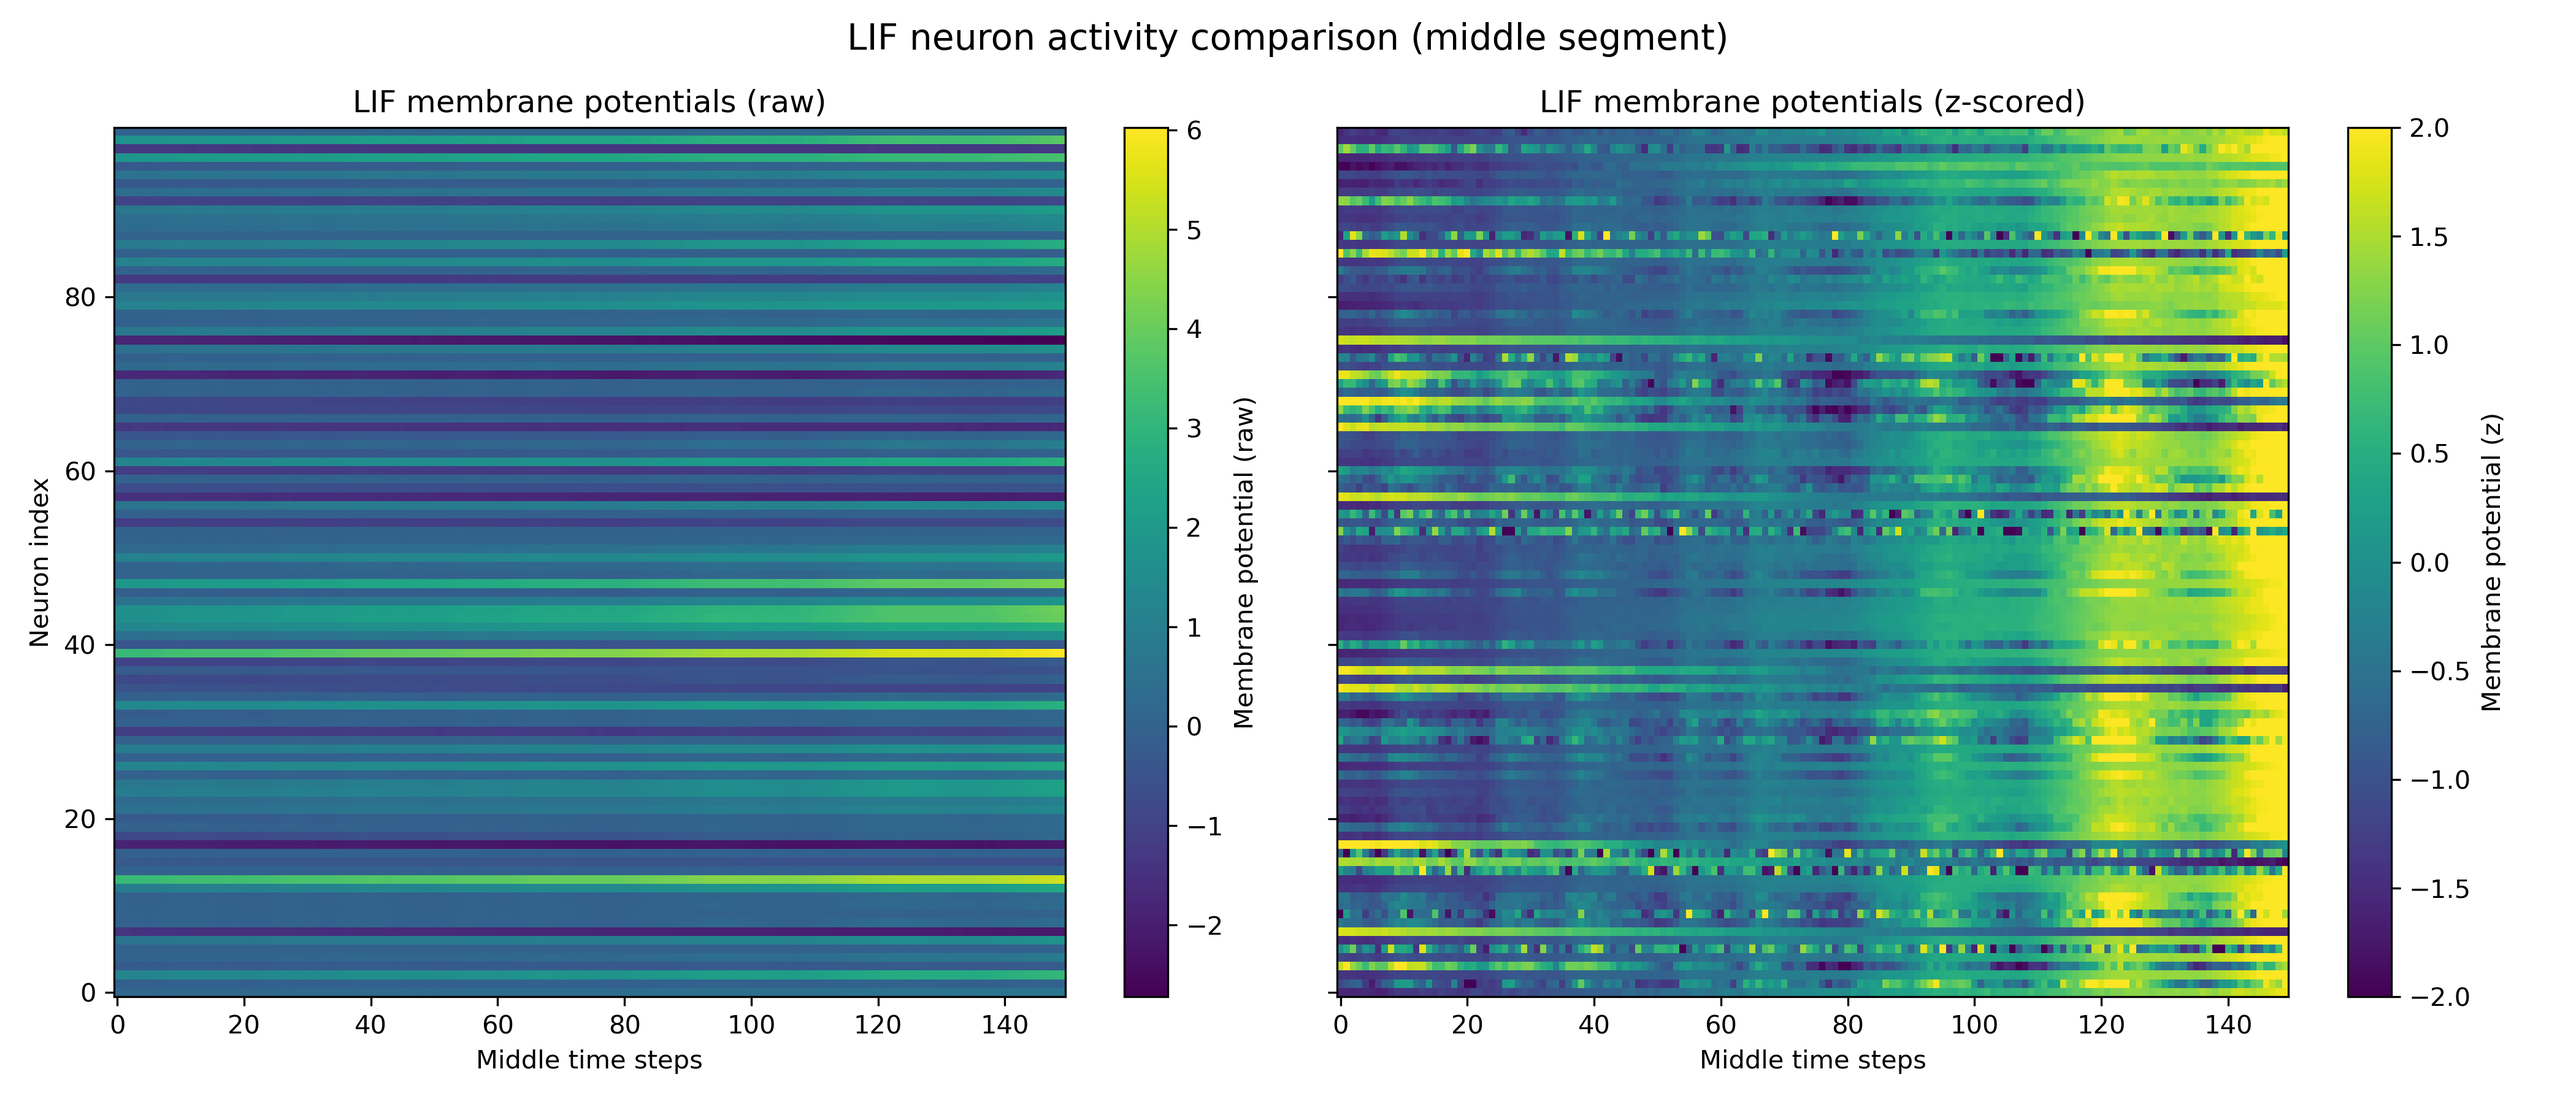
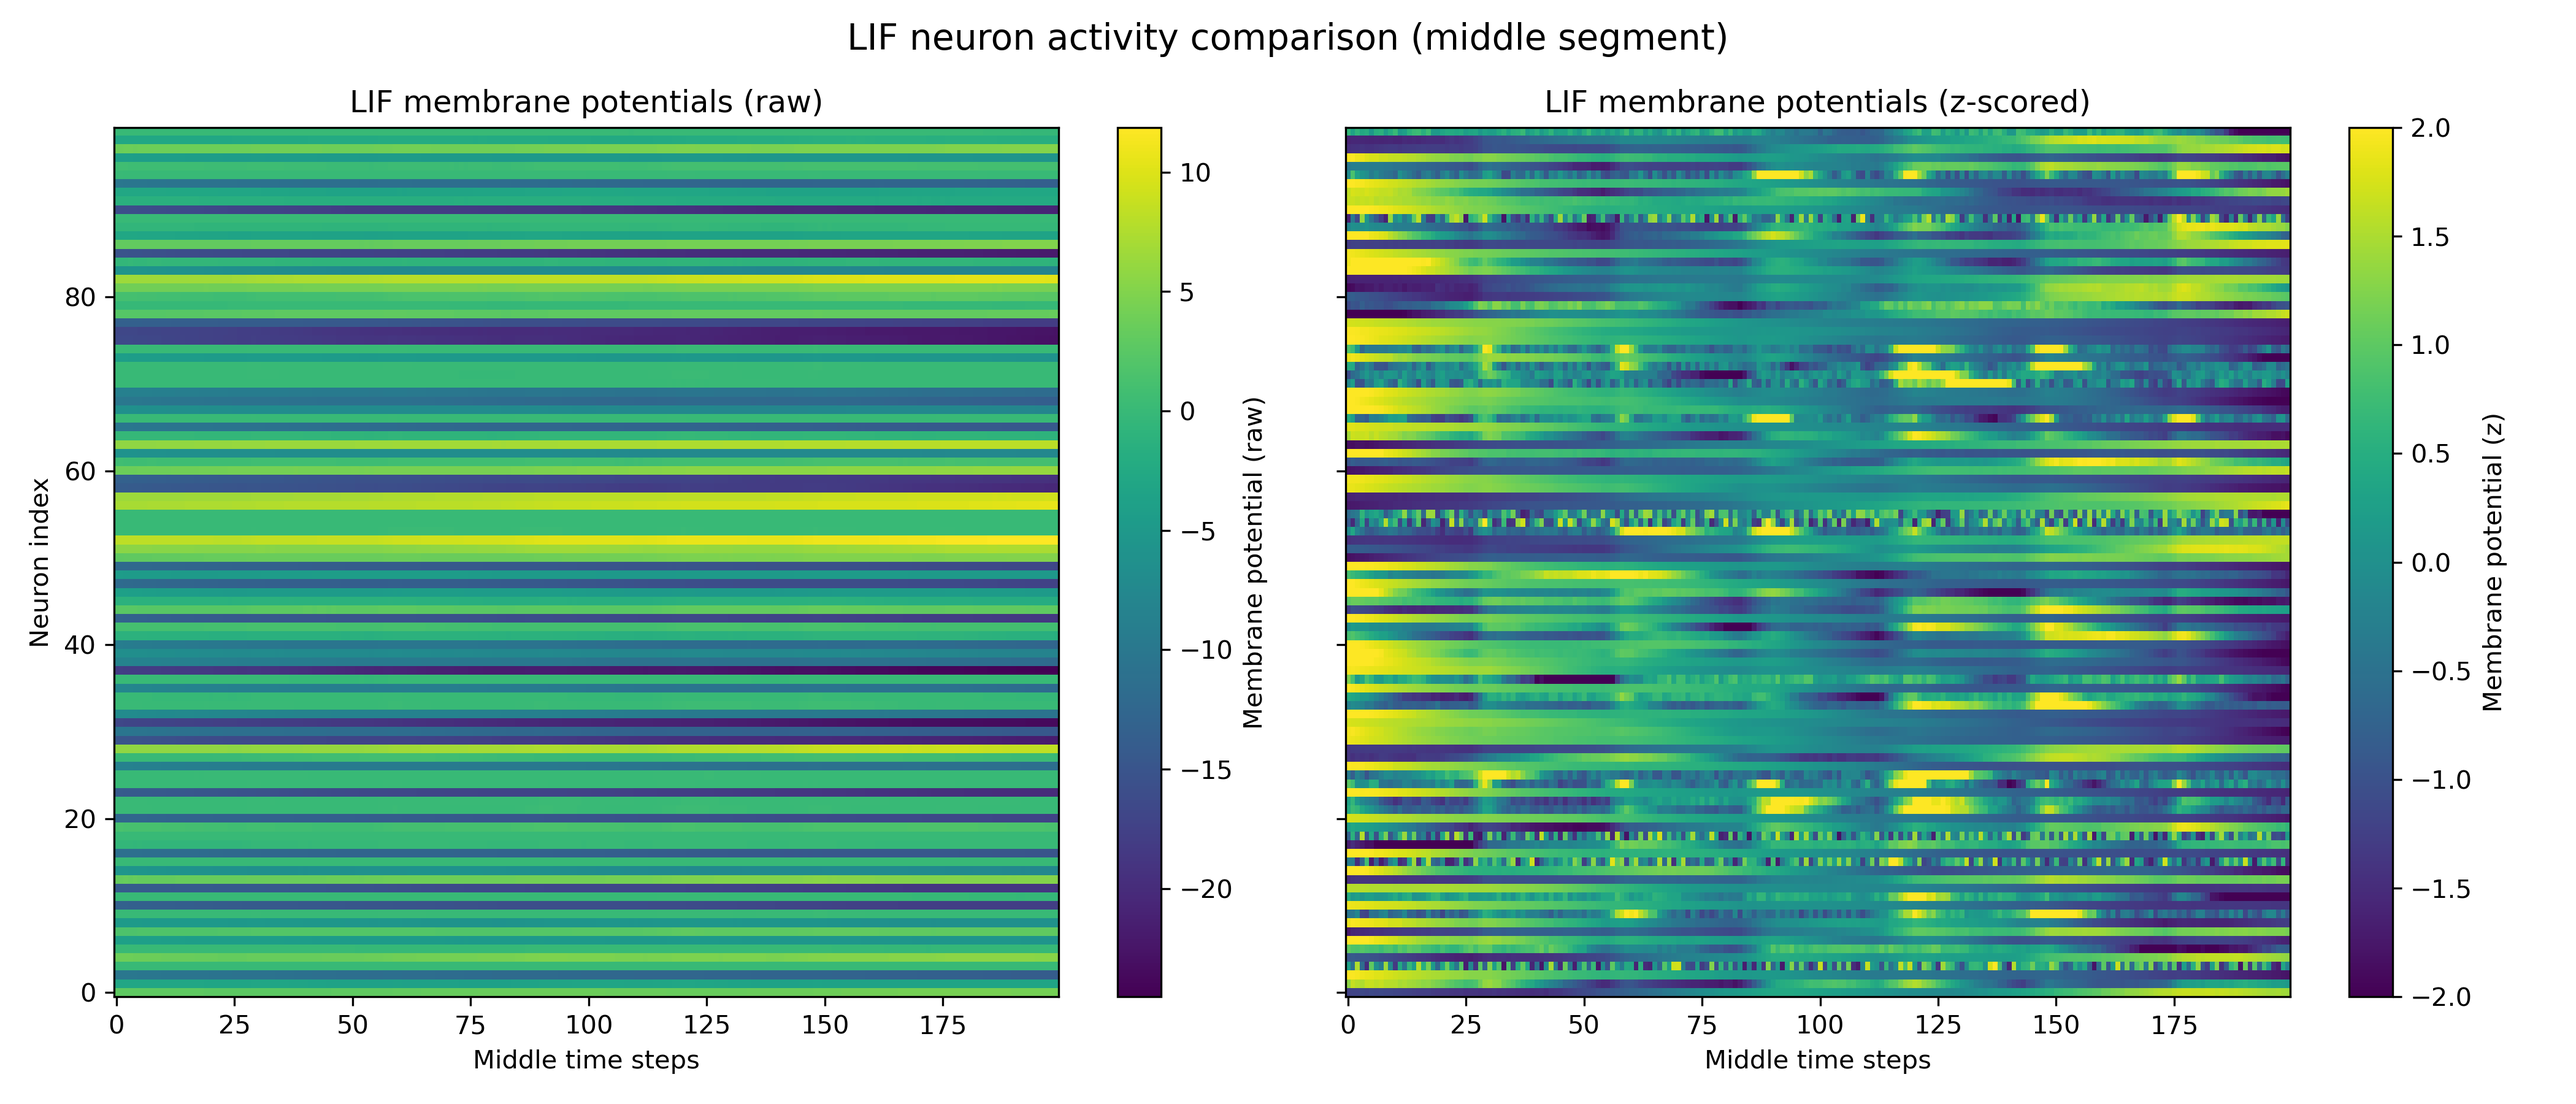
improve_acc.py: added weights [-1,1] to lif->hrf connection and params changed to replicate dynamics in original ron. best accuracy so far

diff --git a/utils_aurora.py b/utils_aurora.py
@@ -466,3 +466,155 @@ def visualize_dynamics_and_spikes_middle(
             f"  {save_prefix}_LIF_spike_raster.png\n"
             f"  {save_prefix}_HRF_spike_raster.png"
         )
+
+
+def visualize_coesn_hy(
+    model,
+    loader,
+    device,
+    n_neurons=100,
+    save_path="hy_ron.png"
+):
+    """
+    Visualize hy dynamics for coESN.
+    
+    Produces ONE figure with 2 subplots:
+      - Raw hy activity (heatmap)
+      - Z-scored hy activity (heatmap)
+    """
+
+    model.eval()
+    with torch.no_grad():
+
+        # ---- Get one batch ----
+        images, labels = next(iter(loader))
+        images = images.to(device)
+        images = images.reshape(images.shape[0], 1, 784).permute(0, 2, 1)
+        B, T, _ = images.shape
+
+        # ---- Initialize states ----
+        hy = torch.zeros(B, model.n_hid, device=device)
+        hz = torch.zeros(B, model.n_hid, device=device)
+
+        # ---- Record hy over time ----
+        hy_list = []
+
+        for t in range(T):
+            hy, hz = model.cell(images[:, t], hy, hz)
+            hy_list.append(hy[0].detach().cpu().numpy())  # take sample 0
+
+        hy_array = np.stack(hy_list, axis=0)  # shape (T, neurons)
+
+        # ---- Select subset of neurons ----
+        n_total = hy_array.shape[1]
+        sel_idx = random.sample(range(n_total), min(n_neurons, n_total))
+        hy_sel = hy_array[:, sel_idx].T  # shape (neurons, time)
+
+        # ---- Z-score normalization per neuron ----
+        hy_norm = (hy_sel - hy_sel.mean(axis=1, keepdims=True)) / (
+            hy_sel.std(axis=1, keepdims=True) + 1e-9
+        )
+
+        # ---- Plot raw + z-scored ----
+        fig, axes = plt.subplots(1, 2, figsize=(14, 6), sharey=True)
+
+        im0 = axes[0].imshow(hy_sel, aspect='auto', cmap='viridis', origin='lower')
+        axes[0].set_title("hy dynamics (raw)")
+        axes[0].set_xlabel("Time step")
+        axes[0].set_ylabel("Neuron index")
+        fig.colorbar(im0, ax=axes[0], label="hy")
+
+        im1 = axes[1].imshow(hy_norm, aspect='auto', cmap='viridis',
+                             origin='lower', vmin=-2, vmax=2)
+        axes[1].set_title("hy dynamics (z-scored)")
+        axes[1].set_xlabel("Time step")
+        fig.colorbar(im1, ax=axes[1], label="z-scored hy")
+
+        plt.suptitle("coESN hy state dynamics", fontsize=14)
+        plt.tight_layout()
+        plt.savefig(save_path, dpi=300)
+        plt.close()
+
+        print(f"Saved hy visualization → {save_path}")
+
+
+def visualize_coesn_hy_middle(
+    model,
+    loader,
+    device,
+    n_neurons=100,
+    n_timesteps=200,
+    save_path="hy_middle.png"
+):
+    """
+    Visualize hy dynamics for coESN over the MIDDLE n_timesteps.
+    
+    Produces ONE figure with 2 subplots:
+      - Raw hy activity (heatmap)
+      - Z-scored hy activity (heatmap)
+    """
+
+    model.eval()
+    with torch.no_grad():
+
+        # ---- Get one batch ----
+        images, labels = next(iter(loader))
+        images = images.to(device)
+        images = images.reshape(images.shape[0], 1, 784).permute(0, 2, 1)
+        B, T, _ = images.shape
+
+        # ---- Define middle segment ----
+        n_timesteps = min(n_timesteps, T)
+        start = max(0, (T - n_timesteps) // 2)
+        end = start + n_timesteps
+        print(f"[coESN hy middle] middle slice: t={start} to t={end} out of T={T}")
+
+        # ---- Initialize states ----
+        hy = torch.zeros(B, model.n_hid, device=device)
+        hz = torch.zeros(B, model.n_hid, device=device)
+
+        # ---- Record hy only in the middle slice ----
+        hy_list = []
+
+        for t in range(T):
+            hy, hz = model.cell(images[:, t], hy, hz)
+
+            if start <= t < end:
+                hy_list.append(hy[0].detach().cpu().numpy())  # sample 0
+
+        # ---- Stack into array ----
+        hy_array = np.stack(hy_list, axis=0)  # shape (middle_T, neurons)
+
+        # ---- Select subset of neurons ----
+        n_total = hy_array.shape[1]
+        sel_idx = random.sample(range(n_total), min(n_neurons, n_total))
+        hy_sel = hy_array[:, sel_idx].T  # shape (neurons, time)
+
+        # ---- Z-score normalization ----
+        hy_norm = (hy_sel - hy_sel.mean(axis=1, keepdims=True)) / (
+            hy_sel.std(axis=1, keepdims=True) + 1e-9
+        )
+
+        # ---- Plot raw + z-scored ----
+        fig, axes = plt.subplots(1, 2, figsize=(14, 6), sharey=True)
+
+        im0 = axes[0].imshow(hy_sel, aspect='auto', cmap='viridis', origin='lower')
+        axes[0].set_title("hy dynamics (raw, middle slice)")
+        axes[0].set_xlabel("Middle time steps")
+        axes[0].set_ylabel("Neuron index")
+        fig.colorbar(im0, ax=axes[0], label="hy")
+
+        im1 = axes[1].imshow(
+            hy_norm, aspect='auto', cmap='viridis', origin='lower',
+            vmin=-2, vmax=2
+        )
+        axes[1].set_title("hy dynamics (z-scored, middle slice)")
+        axes[1].set_xlabel("Middle time steps")
+        fig.colorbar(im1, ax=axes[1], label="z-scored hy")
+
+        plt.suptitle("coESN hy state dynamics (middle segment)", fontsize=14)
+        plt.tight_layout()
+        plt.savefig(save_path, dpi=300)
+        plt.close()
+
+        print(f"Saved middle-slice hy visualization → {save_path}")

diff --git a/improve_acc.py b/improve_acc.py
@@ -65,11 +65,26 @@ class spiking_coESN_rescaled(nn.Module):
         self.x2h = nn.Parameter(x2h, requires_grad=False)
         
         # Rescaled bias
-        bias = ((torch.rand(n_hid) * 2 - 1) * 0.01 ) + self.theta_lif 
+        #bias = ((torch.rand(n_hid) * 2 - 1) * 0.01 ) + self.theta_lif 
+        bias = (torch.rand(n_hid) * 2 - 1) * input_scaling  #original one, centered in 0
         self.bias = nn.Parameter(bias, requires_grad=False)
         
+        # NEW: LIF -> HRF Synaptic Weights (Simulating Tanh Bounding and Diversity)
+        # Initialize weights uniformly in a bounded range, e.g., [-1.0, 1.0].
+        # When a spike (1) is multiplied by this matrix, the input to the HRF
+        # will effectively be bounded between -1.0 and 1.0, mimicking tanh(input)
+        # where the input leads to saturation.
+        lif2hrf = (torch.rand(n_hid, n_hid) * 2 - 1) * 1.0 
+        
+        # We can apply spectral norm scaling here to control the stability, similar to h2h,
+        # ensuring the maximum possible drive doesn't cause instability.
+        #lif2hrf = spectral_norm_scaling(lif2hrf, 1.0) # Scaling by 1.0 ensures max singular value is 1.0
+        
+        self.lif2hrf = nn.Parameter(lif2hrf, requires_grad=False)
+
+
         # Spike Gain
-        self.spike_gain = nn.Parameter(torch.tensor(3.0, device=device), requires_grad=False)
+        self.spike_gain = nn.Parameter(torch.tensor(1.0, device=device), requires_grad=False)
 
 
     # bio_cell remains the same as it outputs 's' (spikes) which the forward pass filters.
@@ -101,7 +116,9 @@ class spiking_coESN_rescaled(nn.Module):
         lif_v = lif_v - lif_s * theta_lif
         
         # ==== HRF oscillator dynamics ====
-        drive = spike_gain * lif_s
+        #drive = (spike_gain * lif_s) #+ (spike_gain * s)
+        drive = torch.matmul(lif_s, self.lif2hrf)
+
 
         hz = hz + dt * (drive - self.gamma * hy - self.epsilon * hz)
         if self.fading:
@@ -164,12 +181,13 @@ class spiking_coESN_rescaled(nn.Module):
             # Feature Option 4: Capture final HRF potential
             if t == L - 1:
                 final_hy = hy
+            
 
         # --- FEATURE OPTIONS: UNCOMMENT THE ONE YOU WANT TO USE ---
         
         # 1. Mean Firing Rate (Baseline) - Feature size: n_hid
-        # mean_rates = spike_counts / L
-        # return mean_rates
+        mean_rates = spike_counts / L
+        #return mean_rates
 
         # 2. Concatenated Spike Counts (First Half, Second Half) - Feature size: 2 * n_hid
         # second_half_spike_counts = spike_counts - half_spike_counts
@@ -181,13 +199,13 @@ class spiking_coESN_rescaled(nn.Module):
         # This is your "fine-grained" feature option.
         mean_filtered_trace = filtered_trace_sum / L
         final_filtered_trace = filtered_trace
-        return torch.cat((mean_filtered_trace, final_filtered_trace), dim=1)
+        #return torch.cat((mean_filtered_trace, final_filtered_trace), dim=1)
 
 
         # 4. Concatenated Spike Rate and Final HRF Potential - Feature size: 2 * n_hid
         # mean_rates = spike_counts / L
         # return torch.cat((mean_rates, final_hy), dim=1)
-
+        return final_hy
 
 ########## MAIN with Rescaled Model and New Filter Parameter ##########
 
@@ -195,14 +213,14 @@ parser = argparse.ArgumentParser(description='Spiking coESN Option A (firing-rat
 parser.add_argument('--n_hid', type=int, default=256)
 parser.add_argument('--batch', type=int, default=256)  
 parser.add_argument('--dt', type=float, default=0.042)
-parser.add_argument('--gamma', type=float, default=2.7)
-parser.add_argument('--epsilon', type=float, default=4.7)
-parser.add_argument('--gamma_range', type=float, default=2.7)
-parser.add_argument('--epsilon_range', type=float, default=4.7)
+parser.add_argument('--gamma', type=float, default=2.7) #2.7 default
+parser.add_argument('--epsilon', type=float, default=0.08) #0.51 from paper for smnist
+parser.add_argument('--gamma_range', type=float, default=2)
+parser.add_argument('--epsilon_range', type=float, default=1)
 
 # RESCALED DEFAULTS: Use modest scaling and low thresholds
-parser.add_argument('--inp_scaling', type=float, default=1.0)   
-parser.add_argument('--theta_lif', type=float, default=0.005) # Low Threshold
+parser.add_argument('--inp_scaling', type=float, default=2.0)   
+parser.add_argument('--theta_lif', type=float, default=0.05) # Low Threshold
 parser.add_argument('--theta_rf', type=float, default=0.005)  # Low Threshold
 parser.add_argument('--tau_filter', type=float, default=20.0) # New Filter Time Constant (ms equivalent)
 
@@ -241,7 +259,7 @@ train_loader, valid_loader, test_loader = get_mnist_data(args.batch, bs_test)
 print("\n=== Generating spike-rate features ===")
 
 #############################
-visualize_dynamics_and_spikes_middle(model, train_loader, device, n_neurons=100, n_timesteps=150)
+visualize_dynamics_and_spikes_middle(model, train_loader, device, n_neurons=100, n_timesteps=200)
 
 def extract_features(loader, model, device):
     model.eval()

diff --git a/sMNIST_task.py b/sMNIST_task.py
@@ -8,6 +8,7 @@ from tqdm import tqdm
 from esn import DeepReservoir
 from sklearn.linear_model import LogisticRegression
 from sklearn import preprocessing
+from utils_aurora import *
 
 parser = argparse.ArgumentParser(description='training parameters')
 
@@ -23,11 +24,11 @@ parser.add_argument('--dt', type=float, default=0.042,
                     help='step size <dt> of the coRNN')
 parser.add_argument('--gamma', type=float, default=2.7,
                     help='y controle parameter <gamma> of the coRNN')
-parser.add_argument('--epsilon', type=float, default=4.7,
+parser.add_argument('--epsilon', type=float, default=0.51, #default=4.7
                     help='z controle parameter <epsilon> of the coRNN')
-parser.add_argument('--gamma_range', type=float, default=2.7,
+parser.add_argument('--gamma_range', type=float, default=2.0, #default=2.7
                     help='y controle parameter <gamma> of the coRNN')
-parser.add_argument('--epsilon_range', type=float, default=4.7,
+parser.add_argument('--epsilon_range', type=float, default=1.0, #default=4.7
                     help='z controle parameter <epsilon> of the coRNN')
 parser.add_argument('--cpu', action="store_true")
 parser.add_argument('--check', action="store_true")
@@ -35,7 +36,7 @@ parser.add_argument('--no_friction', action="store_true", help="remove friction 
 parser.add_argument('--esn', action="store_true")
 parser.add_argument('--inp_scaling', type=float, default=1.,
                     help='ESN input scaling')
-parser.add_argument('--rho', type=float, default=0.99,    #default it was 0.99
+parser.add_argument('--rho', type=float, default=9.0,    #default it was 0.99
                     help='ESN spectral radius')
 parser.add_argument('--leaky', type=float, default=1.0,
                     help='ESN spectral radius')
@@ -178,6 +179,9 @@ elif args.esn and args.no_friction: # coESN
     print(f"Valid accuracy: ", valid_acc)
     print(f"Test accuracy: ", test_acc)
     f = open(f'{main_folder}/sMNIST_log_coESN.txt', 'a')
+
+    visualize_coesn_hy_middle(model, test_loader, device)
+
 elif args.esn: # ESN
     f = open(f'{main_folder}/sMNIST_log_esn.txt', 'a')
 else: # original coRNN
